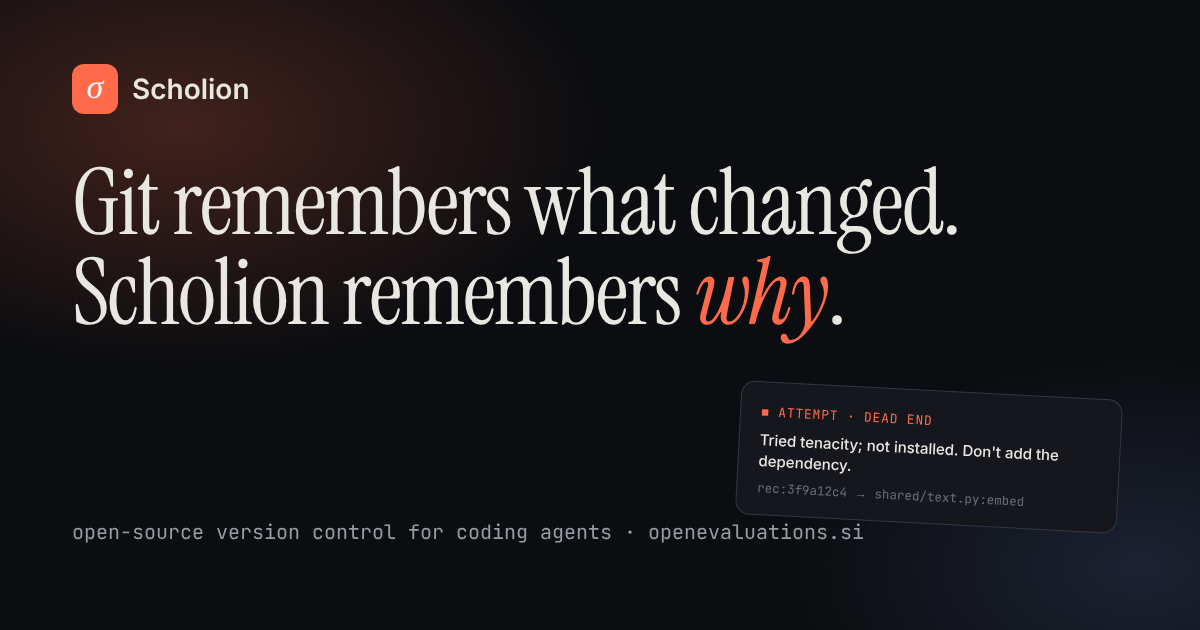
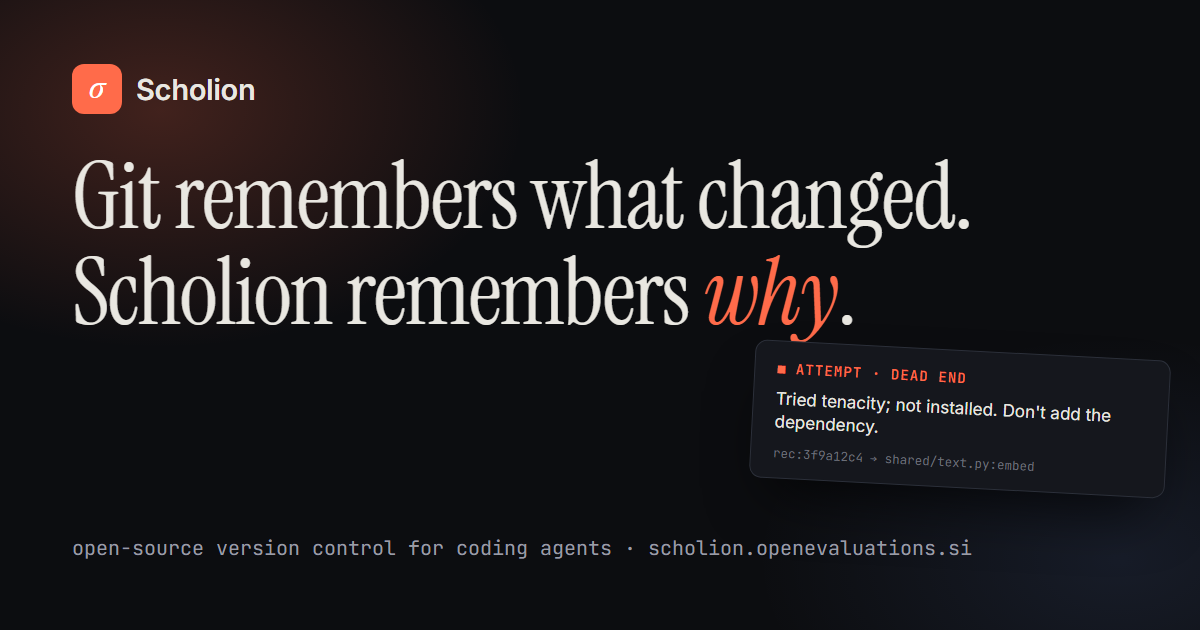
Site: solo-first story throughout, plugin install, dates and a real screenshot (#105)
* Site: solo-first story throughout, plugin install, dates and a real screenshot

- Mission section, problem intro and the many-agents heading follow the solo-first hero (#102);
  the hero lede no longer says "remembers why" twice.
- A screenshot of the recorded run sits under the hero (site/img, a trimmed copy of
  docs/img/demo-replay.png), linking to /demo.
- The Claude Code plugin install (/scholion:setup, :team, :doctor) is on the page and in llms.txt.
- Guides show and declare datePublished/dateModified and an author; /demo gets WebPage JSON-LD;
  the index JSON-LD names the image, screenshot and project; sitemap has lastmod; 404 is noindex.
- og.png names scholion.openevaluations.si and is rendered from scripts/og.html (command in
  site/README.md).
- site/README.md: the openevaluations wrangler.jsonc does not declare the root yet; records the
  temporary root redirect rule and placeholder records to delete before that Worker takes the root.

Claude-Session: https://claude.ai/code/session_011hXkyCy96m7xpAoRa6jhir

* Site: label the hooks card as what the plugin sets up; note the cropped screenshot

Claude-Session: https://claude.ai/code/session_011hXkyCy96m7xpAoRa6jhir

---------

diff --git a/site/index.html b/site/index.html
@@ -293,6 +293,17 @@ h3 { font: 600 18px/1.3 var(--sans); letter-spacing: -.01em; margin: 0; }
 .copy:hover { color: var(--text); border-color: var(--line-2); }
 .copy svg { width: 15px; height: 15px; }
 .copy.done { color: var(--handoff); }
+.easy { margin-top: 40px; border: 1px solid color-mix(in srgb, var(--rubric) 45%, var(--line)); border-radius: var(--radius); background: var(--rubric-soft); padding: 24px; display: grid; gap: 18px; grid-template-columns: 1fr; }
+@media (min-width: 900px) { .easy { grid-template-columns: minmax(0, 1.1fr) minmax(0, 1fr); align-items: center; gap: 32px; } }
+.easy .pill { display: inline-block; font: 500 11.5px/1 var(--mono); padding: 6px 9px; border-radius: 999px; border: 1px solid var(--rubric); color: var(--rubric); }
+.easy h3 { margin: 12px 0 8px; }
+.easy p { margin: 0; color: var(--muted); font-size: 15px; }
+.easy .copy-block pre { background: var(--code-bg); }
+.shot { margin: 56px 0 0; }
+.shot > a { display: block; border: 1px solid var(--line-2); border-radius: var(--radius); overflow: hidden; box-shadow: var(--shadow); background: #0f1014; }
+.shot img { display: block; width: 100%; height: auto; }
+.shot figcaption { margin-top: 12px; color: var(--muted); font-size: 14.5px; }
+.shot figcaption b { color: var(--text); font-weight: 600; }
 .tools { display: flex; flex-wrap: wrap; gap: 6px; margin-top: 28px; }
 .tools code { font-size: 12px; color: var(--muted); }
 
@@ -540,7 +551,17 @@ h1 .why { position: relative; display: inline-block; }
     "price": "0",
     "priceCurrency": "USD"
    },
-   "keywords": "AI coding agents, version control, MCP server, Claude Code, context engineering, agent handoff, jujutsu"
+   "keywords": "AI coding agents, version control, MCP server, Claude Code, context engineering, agent handoff, agent memory, jujutsu",
+   "image": "https://scholion.openevaluations.si/og.png",
+   "screenshot": "https://scholion.openevaluations.si/img/demo-replay.png",
+   "author": { "@id": "https://github.com/vinhqbui/scholion#project" }
+  },
+  {
+   "@type": "Organization",
+   "@id": "https://github.com/vinhqbui/scholion#project",
+   "name": "Scholion",
+   "url": "https://github.com/vinhqbui/scholion",
+   "logo": "https://scholion.openevaluations.si/favicon.svg"
   },
   {
    "@type": "WebSite",
@@ -595,7 +616,7 @@ h1 .why { position: relative; display: inline-block; }
   <div class="wrap">
     <span class="eyebrow"><b>open source · MIT</b> Version control for the age of coding agents</span>
     <h1>Your next Claude Code session starts knowing last session's <em class="why">dead ends<svg class="scribble" viewBox="0 0 220 20" preserveAspectRatio="none" aria-hidden="true"><path d="M3 13 C 45 5, 90 4, 128 9 S 190 17, 217 6"/></svg></em>.</h1>
-    <p class="lede">Git remembers what changed. Scholion remembers why: it gives coding agents <strong>a memory of why</strong>. Instead of re-reading the tree and rediscovering what was already tried, decided and rejected, every agent starts from <strong>the context that matters</strong>: decisions and dead ends anchored to the code, its own isolated workspace, and a deterministic context pack that <strong>never outgrows the context window or the token budget</strong>.</p>
+    <p class="lede">Git remembers what changed. Scholion also remembers <strong>why, and what didn't work</strong>. Instead of re-reading the repo and retrying what already failed, each session starts from <strong>the context that matters</strong>: decisions and dead ends pinned to the code, its own isolated workspace, and a deterministic context pack that <strong>never outgrows the token budget</strong>.</p>
     <div class="cta">
       <a class="btn btn-primary btn-ring" href="https://github.com/vinhqbui/scholion" rel="noopener">
         <svg viewBox="0 0 16 16" fill="currentColor" aria-hidden="true"><path d="M8 .25a.75.75 0 01.673.418l1.882 3.815 4.21.612a.75.75 0 01.416 1.279l-3.046 2.97.719 4.192a.75.75 0 01-1.088.791L8 12.347l-3.766 1.98a.75.75 0 01-1.088-.79l.72-4.194L.818 6.374a.75.75 0 01.416-1.28l4.21-.611L7.327.668A.75.75 0 018 .25z"/></svg>
@@ -633,6 +654,14 @@ h1 .why { position: relative; display: inline-block; }
       <div class="stat"><b>1</b><span>isolated jj workspace per task, no shared checkout</span></div>
       <div class="stat"><b>−13%</b><span>turns per task for Claude Code, at the same cost (<a href="#evidence">benchmark</a>)</span></div>
     </div>
+
+    <figure class="shot reveal">
+      <a href="/demo" aria-label="Watch the recorded run">
+        <img src="/img/demo-replay.png" width="1168" height="811" loading="lazy" decoding="async"
+             alt="A recorded Scholion run: Codex asks for context and its pack opens with the decision and the dead end Claude recorded, next to the task's margin notes.">
+      </a>
+      <figcaption><b>Not a mock-up.</b> A recorded run: Codex asks for context and gets Claude's decision and dead end first, inside a 2,000-token budget. <a href="/demo">Watch the replay →</a></figcaption>
+    </figure>
   </div>
 </header>
 
@@ -640,12 +669,12 @@ h1 .why { position: relative; display: inline-block; }
 <section id="mission" class="mission">
   <div class="wrap">
     <div class="sec-label">Why we build this</div>
-    <p class="mission-text reveal">Agents shouldn't start from zero. We're building the home where they <em>build together and never forget</em>.</p>
-    <p class="mission-sub reveal">Software is being written by swarms of agents. Give them a shared memory, safe parallel workspaces and a handoff that just works, and they stop repeating each other and start compounding. Join us and help shape the code system they'll all use.</p>
+    <p class="mission-text reveal">Agents shouldn't start from zero. Not in your next session, and <em>not when another agent takes over</em>.</p>
+    <p class="mission-sub reveal">Start with one agent on one repo: what it learned today is still there tomorrow, pinned to the code it is about. Add agents from other vendors and the same memory carries over, with parallel workspaces and handoffs that just work. Join us and help shape it.</p>
     <div class="pillars">
-      <div class="pillar reveal"><b>Ship in parallel</b><span>A swarm of agents, each in its own workspace. Main moves only through review, and any merge can be undone.</span></div>
-      <div class="pillar reveal"><b>Never repeat a mistake</b><span>Every decision and dead end stays with the code, so the next agent skips straight to what works.</span></div>
-      <div class="pillar reveal"><b>Pick up anywhere</b><span>Hand a task to any agent, or any human. It starts with exactly the context that matters, and nothing that doesn't.</span></div>
+      <div class="pillar reveal"><b>Never repeat a mistake</b><span>Every decision and dead end stays with the code, so the next session skips straight to what works.</span></div>
+      <div class="pillar reveal"><b>Pick up anywhere</b><span>Tomorrow's session, another agent or a human: each starts with the context that matters, and nothing that doesn't.</span></div>
+      <div class="pillar reveal"><b>Ship in parallel</b><span>Add agents and each works in its own workspace. Main moves only through review, and any merge can be undone.</span></div>
     </div>
   </div>
 </section>
@@ -656,7 +685,7 @@ h1 .why { position: relative; display: inline-block; }
   <div class="wrap">
     <div class="sec-label">The problem</div>
     <h2>Git keeps snapshots and throws the <em>reasoning</em> away.</h2>
-    <p class="sec-intro dropcap">Put several coding agents on one repository and they hit the same three walls, over and over. Each one costs turns, time, and sometimes a broken main. Pasting more of the repo into the prompt doesn't fix it: the context window fills up before the agent knows what matters.</p>
+    <p class="sec-intro dropcap">Every new session hits the same three walls, and every agent you add hits them again. Each one costs turns, time, and sometimes a broken main. Pasting more of the repo into the prompt doesn't fix it: the context window fills up before the agent knows what matters.</p>
     <div class="grid-3">
       <article class="card reveal"><div class="num">i.</div><h3>The re-orientation tax</h3><p>Every fresh session spends its first turns reading the tree, grepping for the target and reconstructing context the last agent already had.</p></article>
       <article class="card reveal"><div class="num">ii.</div><h3>Dead ends get retried</h3><p>"Tried tenacity, not installed." That sentence never reaches a commit, so the next agent tries tenacity again. Rejected approaches vanish with the session.</p></article>
@@ -796,7 +825,7 @@ tokens: 1184/2000</span></pre>
 <section id="swarm">
   <div class="wrap">
     <div class="sec-label">Many agents, one repo</div>
-    <h2>Built for swarms, not for <em>a single</em> chat window.</h2>
+    <h2>Add more agents. <em>Nothing</em> gets lost.</h2>
     <p class="sec-intro">Handoffs carry what's done, remaining, broken and open. Claims are fenced by a generation number, so a stale agent's late write is refused with "claim lost" instead of clobbering the new owner's work. Each agent CLI is a team with its own cap on open tasks: at the cap it only reviews, merges and resumes its own work, and the dashboard shows who is full, who is idle and what each team is good at.</p>
 
     <div class="life reveal">
@@ -871,9 +900,18 @@ av post --repo api --title "Draw the logo" \
   <div class="wrap">
     <div class="sec-label">Plug in your agents</div>
     <h2>Works with the agents you already run.</h2>
-    <p class="sec-intro">Install, then run <code>av init</code> in your repository: it starts the daemon with its own Postgres on <code>127.0.0.1:7420</code>, adds the repository and wires Claude Code. No Docker needed; <code>deploy/docker-compose.yml</code> adds semantic search. Then connect your other agents one of three ways. Where an agent has hooks, use them: no tool schemas sit in its context, and it closes a task in one <code>av submit --record …</code> call.</p>
+    <div class="easy reveal">
+      <div>
+        <span class="pill">Claude Code plugin · easiest</span>
+        <h3>Ask Claude to set it up</h3>
+        <p>Add the plugin once, open Claude Code in your repository and say <em>"set up Scholion for this repo"</em>, or run <code>/scholion:setup</code>. Claude installs Scholion, connects your agents and checks that everything works. <code>/scholion:team</code> sets up several agents on one backlog, and <code>/scholion:doctor</code> fixes a setup that isn't working.</p>
+      </div>
+      <div class="copy-block"><pre><code>claude plugin marketplace add vinhqbui/scholion
+claude plugin install scholion@scholion</code></pre><button class="copy" aria-label="Copy command"></button></div>
+    </div>
+    <p class="sec-intro" style="margin-top:32px">By hand: install, then run <code>av init</code> in your repository. It starts the daemon with its own Postgres on <code>127.0.0.1:7420</code>, adds the repository and wires Claude Code. No Docker needed; <code>deploy/docker-compose.yml</code> adds semantic search. Then connect your other agents one of three ways. Where an agent has hooks, use them: no tool schemas sit in its context, and it closes a task in one <code>av submit --record …</code> call.</p>
     <div class="ints">
-      <div class="int reveal"><span class="pill">Claude Code · recommended</span><h3>Hooks + CLI</h3><p><code>SessionStart</code> prints an 800-token pack; opening a file adds what other tasks recorded about it; edits are checkpointed; <code>Stop</code> asks once to record changes no record explains. Silent outside a task, never fails the agent.</p>
+      <div class="int reveal"><span class="pill">Claude Code · what the plugin sets up</span><h3>Hooks + CLI</h3><p><code>SessionStart</code> prints an 800-token pack; opening a file adds what other tasks recorded about it; edits are checkpointed; <code>Stop</code> asks once to record changes no record explains. Silent outside a task, never fails the agent.</p>
         <div class="copy-block"><pre><code>integrations/claude-code/install.sh</code></pre><button class="copy" aria-label="Copy command"></button></div></div>
       <div class="int reveal"><span class="pill">any MCP client</span><h3>MCP server</h3><p>For clients without hooks: twenty-four tools over streamable HTTP at <code>localhost:7420/mcp</code>. <code>av init --for</code> writes the config for Codex, Cursor, Grok and Gemini. Each connection is its own ledger session and remembers its tasks and their claim generations.</p>
         <div class="copy-block"><pre><code>av init --for codex --for cursor \

diff --git a/scripts/og.html b/scripts/og.html
@@ -1,0 +1,43 @@
+<!doctype html>
+<!-- Source of site/og.png (1200x630 link preview). Render with headless Chrome; the command is in
+     site/README.md ("Link preview"). Not served: it lives outside site/. -->
+<html lang="en">
+<head>
+<meta charset="utf-8">
+<link href="https://fonts.googleapis.com/css2?family=Instrument+Serif:ital@0;1&family=Inter:wght@400;500;600&family=JetBrains+Mono:wght@400;500&display=block" rel="stylesheet">
+<style>
+  html, body { margin: 0; width: 1200px; height: 630px; overflow: hidden; }
+  body {
+    position: relative; color: #e9e7e1; font-family: Inter, system-ui, sans-serif;
+    background:
+      radial-gradient(520px 340px at 160px 110px, rgba(255, 107, 74, .22), transparent 70%),
+      radial-gradient(520px 320px at 1120px 560px, rgba(122, 162, 255, .10), transparent 70%),
+      #0c0d10;
+  }
+  .brand { position: absolute; left: 72px; top: 64px; display: flex; align-items: center; gap: 14px;
+    font: 600 29px/1 Inter, sans-serif; letter-spacing: -.01em; }
+  .mark { width: 50px; height: 50px; border-radius: 12px; background: #ff6b4a; color: #fff;
+    display: grid; place-items: center; font: italic 34px/1 "Instrument Serif", serif; padding-bottom: 4px; box-sizing: border-box; }
+  h1 { position: absolute; left: 72px; top: 150px; margin: 0; width: 1060px;
+    font: 400 92px/1.04 "Instrument Serif", serif; letter-spacing: -.015em; }
+  h1 em { color: #ff6b4a; }
+  .card { position: absolute; left: 752px; top: 350px; width: 370px; padding: 20px 22px 18px;
+    border: 1px solid #2c303a; border-radius: 12px; background: #15171d; transform: rotate(3deg);
+    box-shadow: 0 30px 60px -20px rgba(0, 0, 0, .7); }
+  .kind { font: 500 14px/1 "JetBrains Mono", monospace; color: #ff6b4a; letter-spacing: .08em; }
+  .card p { margin: 12px 0 14px; font: 400 17px/1.35 Inter, sans-serif; color: #e9e7e1; }
+  .anchor { font: 400 12.5px/1 "JetBrains Mono", monospace; color: #6b6e78; }
+  .foot { position: absolute; left: 72px; top: 538px; font: 400 20px/1 "JetBrains Mono", monospace; color: #9a9ca5; }
+</style>
+</head>
+<body>
+  <div class="brand"><span class="mark">σ</span>Scholion</div>
+  <h1>Git remembers what changed.<br>Scholion remembers <em>why</em>.</h1>
+  <div class="card">
+    <div class="kind">■ ATTEMPT · DEAD END</div>
+    <p>Tried tenacity; not installed. Don't add the dependency.</p>
+    <div class="anchor">rec:3f9a12c4 → shared/text.py:embed</div>
+  </div>
+  <div class="foot">open-source version control for coding agents · scholion.openevaluations.si</div>
+</body>
+</html>

diff --git a/site/guides/handoff-between-ai-coding-agents.html b/site/guides/handoff-between-ai-coding-agents.html
@@ -23,6 +23,10 @@
  "headline": "Hand off a coding task between AI agents without losing context",
  "about": ["AI coding agents", "Claude Code", "Codex", "agent handoff", "context window"],
  "url": "https://scholion.openevaluations.si/guides/handoff-between-ai-coding-agents",
+ "author": {"@type": "Organization", "name": "Scholion", "url": "https://github.com/vinhqbui/scholion"},
+ "publisher": {"@type": "Organization", "name": "Scholion", "url": "https://github.com/vinhqbui/scholion", "logo": {"@type": "ImageObject", "url": "https://scholion.openevaluations.si/favicon.svg"}},
+ "image": "https://scholion.openevaluations.si/og.png",
+ "datePublished": "2026-10-28", "dateModified": "2026-11-04",
  "isPartOf": {"@type": "WebSite", "name": "Scholion", "url": "https://scholion.openevaluations.si/"}}
 </script>
 </head>
@@ -36,6 +40,7 @@
 <main>
   <span class="eyebrow">guide · 5 minutes</span>
   <h1>Hand off a coding task between AI agents without losing context</h1>
+  <p class="dated">Published <time datetime="2026-10-28">28 October 2026</time> · updated <time datetime="2026-11-04">4 November 2026</time></p>
   <p class="lede">An agent's context window fills up, or you want a second model to finish the job. The next agent then starts cold: it re-reads the repository, rediscovers what was decided, and often <strong>retries the approach that already failed</strong>. Git does not help, because a diff shows what changed, never why or what was tried.</p>
 
   <h2>What a good handoff contains</h2>

diff --git a/site/guides/memory-for-coding-agents.html b/site/guides/memory-for-coding-agents.html
@@ -23,6 +23,10 @@
  "headline": "Persistent memory for AI coding agents, anchored to code",
  "about": ["AI coding agents", "agent memory", "Model Context Protocol", "context engineering"],
  "url": "https://scholion.openevaluations.si/guides/memory-for-coding-agents",
+ "author": {"@type": "Organization", "name": "Scholion", "url": "https://github.com/vinhqbui/scholion"},
+ "publisher": {"@type": "Organization", "name": "Scholion", "url": "https://github.com/vinhqbui/scholion", "logo": {"@type": "ImageObject", "url": "https://scholion.openevaluations.si/favicon.svg"}},
+ "image": "https://scholion.openevaluations.si/og.png",
+ "datePublished": "2026-10-28", "dateModified": "2026-11-04",
  "isPartOf": {"@type": "WebSite", "name": "Scholion", "url": "https://scholion.openevaluations.si/"}}
 </script>
 </head>
@@ -36,6 +40,7 @@
 <main>
   <span class="eyebrow">guide · agent memory</span>
   <h1>Persistent memory for AI coding agents, anchored to code</h1>
+  <p class="dated">Published <time datetime="2026-10-28">28 October 2026</time> · updated <time datetime="2026-11-04">4 November 2026</time></p>
   <p class="lede">Every new agent session starts with amnesia. Notes files like <code>CLAUDE.md</code> help with conventions, but they do not scale to <strong>hundreds of small decisions</strong>, they are loaded whole whatever the task, and nothing tells you when a note has gone stale.</p>
 
   <h2>Memory that lives next to the code</h2>

diff --git a/site/demo.html b/site/demo.html
@@ -15,6 +15,16 @@
 <meta property="og:image" content="https://scholion.openevaluations.si/og.png">
 <meta name="twitter:card" content="summary_large_image">
 <link rel="icon" href="/favicon.svg" type="image/svg+xml">
+<script type="application/ld+json">
+{"@context": "https://schema.org", "@type": "WebPage",
+ "name": "Scholion replay: three agents, one task",
+ "description": "A replay of a real Scholion run: Claude starts a task and hands it off, Codex picks it up from the context pack without re-reading the repo, Gemini reviews. Every command output is what the daemon returned.",
+ "url": "https://scholion.openevaluations.si/demo",
+ "image": "https://scholion.openevaluations.si/img/demo-replay.png",
+ "datePublished": "2026-10-28", "dateModified": "2026-11-04",
+ "about": {"@type": "SoftwareApplication", "name": "Scholion", "url": "https://scholion.openevaluations.si/"},
+ "isPartOf": {"@type": "WebSite", "name": "Scholion", "url": "https://scholion.openevaluations.si/"}}
+</script>
 <link rel="preconnect" href="https://fonts.googleapis.com">
 <link rel="preconnect" href="https://fonts.gstatic.com" crossorigin>
 <link href="https://fonts.googleapis.com/css2?family=Instrument+Serif:ital@0;1&family=Inter:wght@400;500;600;700&family=JetBrains+Mono:wght@400;500&display=swap" rel="stylesheet">

diff --git a/site/guides/guide.css b/site/guides/guide.css
@@ -32,6 +32,7 @@ nav a.l:hover { color: var(--text); }
 main { padding-top: 40px; padding-bottom: 40px; }
 .eyebrow { font: 500 13px/1 var(--mono); color: var(--rubric); }
 h1 { font: 400 clamp(34px, 5.5vw, 50px)/1.08 var(--serif); margin: 12px 0 14px; }
+.dated { margin: 0 0 18px; color: var(--faint); font: 400 13px/1.4 var(--mono); }
 h2 { font: 400 30px/1.15 var(--serif); margin: 42px 0 10px; }
 p, li { color: var(--muted); }
 strong { color: var(--text); font-weight: 600; }

diff --git a/site/404.html b/site/404.html
@@ -3,6 +3,7 @@
 <head>
 <meta charset="utf-8">
 <meta name="viewport" content="width=device-width, initial-scale=1">
+<meta name="robots" content="noindex">
 <title>Not found · Scholion</title>
 <link rel="icon" href="/favicon.svg" type="image/svg+xml">
 <style>

diff --git a/site/README.md b/site/README.md
@@ -11,7 +11,8 @@ The project website: a static page, no build step. Everything is in this folder.
 | `demo-replay.json` | Written by `scripts/demo-replay.py` from a real daemon; do not edit by hand. |
 | `404.html` | Served by Cloudflare Pages for unknown paths. |
 | `_headers` | Cloudflare Pages response headers (CSP, `text/markdown` for `llms.txt`). |
-| `og.png` | 1200×630 link preview. |
+| `og.png` | 1200×630 link preview, rendered from `scripts/og.html` (see "Link preview"). |
+| `img/demo-replay.png` | Screenshot of `/demo` under the hero: `docs/img/demo-replay.png` (which the README uses) with its top 10 px cropped off (a sliver of the page header). If you replace it, keep the `width`/`height` attributes of its `<img>` in `index.html` equal to the file's size. |
 | `favicon.svg`, `robots.txt`, `sitemap.xml` | The usual. |
 
 Numbers on the page come from these result directories, and only these:
@@ -38,6 +39,20 @@ output; fix the caption or the story, not the check.
 ```bash
 python3 -m http.server -d site 8000   # then open http://localhost:8000
 ```
+
+## Link preview
+
+`og.png` is a screenshot of `scripts/og.html`, which lives outside `site/` so it is not served.
+Edit the template, then render it with headless Chrome (the virtual-time budget gives Google Fonts
+time to load; without it the serif falls back to Georgia) and look at the result:
+
+```bash
+chrome --headless=new --hide-scrollbars --force-device-scale-factor=1 --window-size=1200,630 \
+  --virtual-time-budget=8000 --screenshot=site/og.png "file://$PWD/scripts/og.html"
+```
+
+When the guides or other pages change, update their `dateModified` (JSON-LD and the visible date
+line) and the page's `<lastmod>` in `sitemap.xml`.
 
 ## Deploy to Cloudflare
 
@@ -69,9 +84,18 @@ not touch the root. Three owner steps, in order:
    (deploys the Worker `openevaluations`; its attach of the custom domain `openevaluations.si` to
    the root has to wait for step 3).
 3. Remove the root domain `openevaluations.si` from `scholion-deploy` (Domains & Routes). Cloudflare
-   allows one Worker per custom domain, so only now can `openevaluations` take the root
-   (its `wrangler.jsonc` declares the root as a custom domain, so rerun its deploy). Expect a short
-   gap between removing and attaching; do the two back to back.
+   allows one Worker per custom domain, so only now can `openevaluations` take the root. Its
+   `wrangler.jsonc` does **not** declare the root yet: add
+   `"routes": [{ "pattern": "openevaluations.si", "custom_domain": true }]` there, then rerun its
+   deploy. Expect a short gap between removing and attaching; do the two back to back.
+
+State on 2026-11-04: step 3's removal ran before the openevaluations Worker could attach, and the
+root went dark. As a stopgap the zone has a Single Redirect rule (its description starts
+`temp: openevaluations.si root+www`) sending `openevaluations.si` and `www` to the same path on
+`scholion.openevaluations.si` with a 302, plus two placeholder proxied `A 192.0.2.1` records for
+the root and `www`. Before the openevaluations Worker takes the root, delete that rule and both
+placeholder records: a custom domain cannot attach over an existing record, and the rule would
+hide the new site.
 
 Redirect for a while: add a rule on the `openevaluations.si` zone (Rules -> Redirect Rules, or a
 small Worker route) that sends the old Scholion paths, `/demo`, `/demo-replay.json`, `/guides/*`

diff --git a/CHANGELOG.md b/CHANGELOG.md
@@ -2,6 +2,11 @@
 
 ## Unreleased
 
+- **Site refresh.** The Mission section, the problem intro and the many-agents heading follow the
+  solo-first hero; a screenshot of the recorded run sits under the hero; the Claude Code plugin
+  install (`/scholion:setup`) is on the page and in `site/llms.txt`; the guides show and declare
+  their dates and author, `/demo` has structured data, the sitemap has `lastmod`, the 404 page is
+  `noindex`; `og.png` names the new domain and is rendered from `scripts/og.html`.
 - **Claude Code under its own name, and a full first pack.** `av --agent NAME init --for claude`
   adds the MCP server with `X-Av-Agent: NAME`, so Claude Code's MCP calls are made under the name
   `av next` and the hooks use rather than its client name (without `--agent`, or with the default
